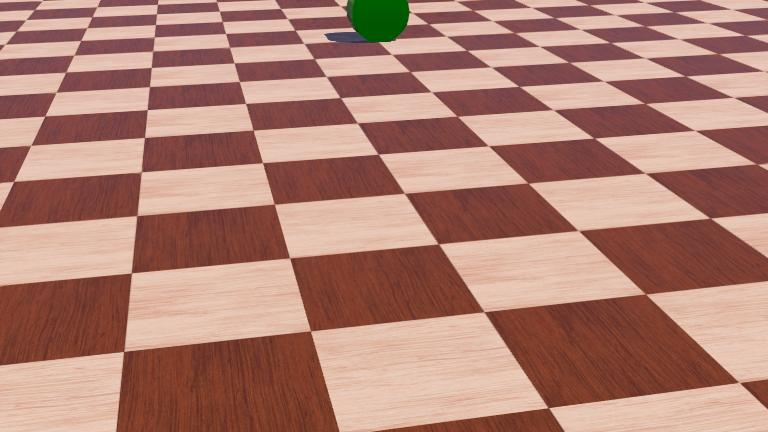
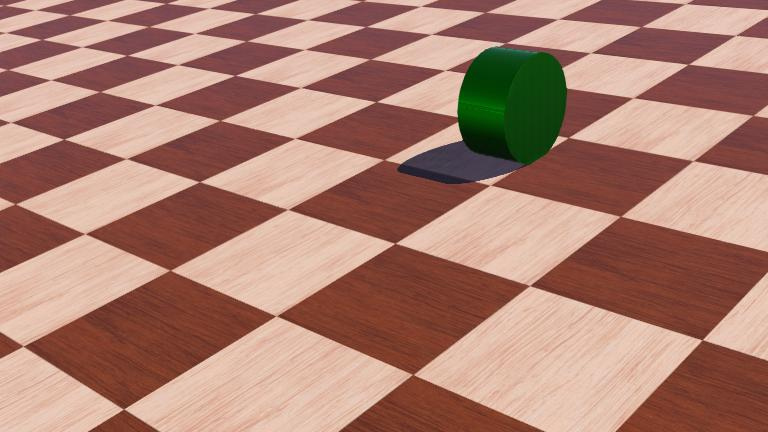
new better tire model!

diff --git a/controllers/tire_dynamicFDS/tire_dynamicFDS.py b/controllers/tire_dynamicFDS/tire_dynamicFDS.py
@@ -18,44 +18,31 @@ coulomb_friction = mc_node.getField("coulombFriction")
 sideslipConstant = mc_node.getField("forceDependentSlip")
 
 
-data = robot.getDevice('gps')
-data.enable(TIME_STEP)
+mf_var = [0, 0, 0, 0] # Magic Formula parameters D,C,B,E
 
 
-slipAngle = 0.0
-
-
+S = 0.0
 
 coulomb_friction.setMFFloat(0,300)
 
-sideslipConstant.setMFFloat(0, 1)
-sideslipConstant.setMFFloat(1, 1)
-vI = [1, 1, 0, 0, 0, 0]  
-v2 = [1, -1, 0, 0, 0, 0]  
-v3 = [1, 0, 0, 0, 0, 0]  
+sideslipConstant.setMFFloat(0, 0)
+sideslipConstant.setMFFloat(1, 0)
 
 k = 1
 
-motor = robot.getDevice('AxleMotor')  # get the motor device
 
-v_last = 1
 
-if motor == None:
-    sys.exit(1)
-
-motor.setPosition(float('inf')) 
-motor.setVelocity(0.0)  # set the velocity to zero
 i = 0
 slip = 0.0
-lslip =0.0
-#tire_node.setVelocity(vI)
 
 useMF = False
+
+v_x = 0.0
 
 while robot.step(TIME_STEP) != -1:
     
     i +=1
-    v_C = vI = [1, 0, 0, 0, 0, 0]
+    v_C = [v_x, 0, 0, 0, 0, 0]
     v_C[1] = v_C[1]+ i/1000
     
     tire_node.setVelocity(v_C)
@@ -64,22 +51,24 @@ while robot.step(TIME_STEP) != -1:
     
     abs_vy = absolute_v[1]
     
-    tire_node.setVelocity(vI)# roll forward
+    tire_node.setVelocity(v_C)# roll forward
     if absolute_v[0] != 0.0:
         slip = numpy.arctan(abs_vy/absolute_v[0])
     
-    if absolute_v[0] != 0.0:
-        v_y = numpy.tan(slipAngle)*absolute_v[0]
-    
-    #print('wanted Vy ',v_y)
-    #print('dv ', dv)
     print('slip \n', numpy.degrees(slip))
    
     print('abs_vy \n', abs_vy)
    
     print('lateral force \n', k*slip)
+    
+    if useMF:
+        f_y = mf_var[0]*numpy.sin(mf_var[1]*numpy.arctan(mf_var[2]*slip-mf_var[3]*(mf_var[2]*slip-numpy.arctan(mf_var[2]*slip))))
+        S = numpy.tan(slip)/(f_y*absolute_v[0])
+        sideslipConstant.setMFFloat(1, S) 
+        print('MF dynamic \n',S)
+    else:
      
-    S = numpy.tan(slip)/(k*slip*1)
-    sideslipConstant.setMFFloat(1, S) 
-    print('FDS dynamic \n',S)
+        S = numpy.tan(slip)/(k*slip*absolute_v[0])
+        sideslipConstant.setMFFloat(1, S) 
+        print('FDS dynamic \n',S)
   

diff --git a/controllers/tire_old/tire_old.py b/controllers/tire_old/tire_old.py
@@ -1,0 +1,86 @@
+from controller import Supervisor,Robot, GPS, Motor
+import sys
+import numpy
+import math
+TIME_STEP = 32
+
+robot = Supervisor()  # create Robot instance
+mc_node = robot.getFromDef('Contact1')
+tire_node = robot.getFromDef('Wheel')
+
+if mc_node == None:
+    sys.exit(1)
+    
+coulomb_friction = mc_node.getField("coulombFriction")
+sideslipConstant = mc_node.getField("forceDependentSlip")
+
+
+data = robot.getDevice('gps')
+data.enable(TIME_STEP)
+
+
+slipAngle = 0.0
+
+
+
+coulomb_friction.setMFFloat(0,0.2)
+
+sideslipConstant.setMFFloat(0, 0.0)
+sideslipConstant.setMFFloat(1, 0.0)
+
+
+
+
+motor = robot.getDevice('AxleMotor')  # get the motor device
+
+
+if motor == None:
+    sys.exit(1)
+
+motor.setPosition(float('inf')) 
+motor.setVelocity(0.0)  # set the velocity to zero
+i = 0
+
+while robot.step(TIME_STEP) != -1:
+
+    i +=1
+    
+    Max_Speed = 6.28
+    U = data.getSpeedVector()
+    wheelSpeed = Max_Speed * 0.5
+    motor.setVelocity(wheelSpeed)  # roll forward
+    tire_node.addForce([0, 0, 1], True)
+    
+    #print(velVec[1], velVec[2])
+    
+    if U[1] != 0.0:
+    
+        slipAngle = numpy.arctan(U[1]/U[0])
+    
+
+    print("Slip Angle: ", slipAngle*180/math.pi)
+    
+    
+  # [CODE PLACEHOLDER 2]
+
+  
+    if i == 100: 
+  
+      val = 2.0
+  
+      coulomb_friction.setMFFloat(0,val)
+      
+      
+
+  
+    if i == 300: 
+  
+      side_val = 1
+      
+      sideslipConstant.setMFFloat(1, side_val)
+      tire_node.addForce([0, 0, 20], True)
+
+  
+    if i == 400:
+      new_val = 3.0
+      coulomb_friction.setMFFloat(0,new_val)
